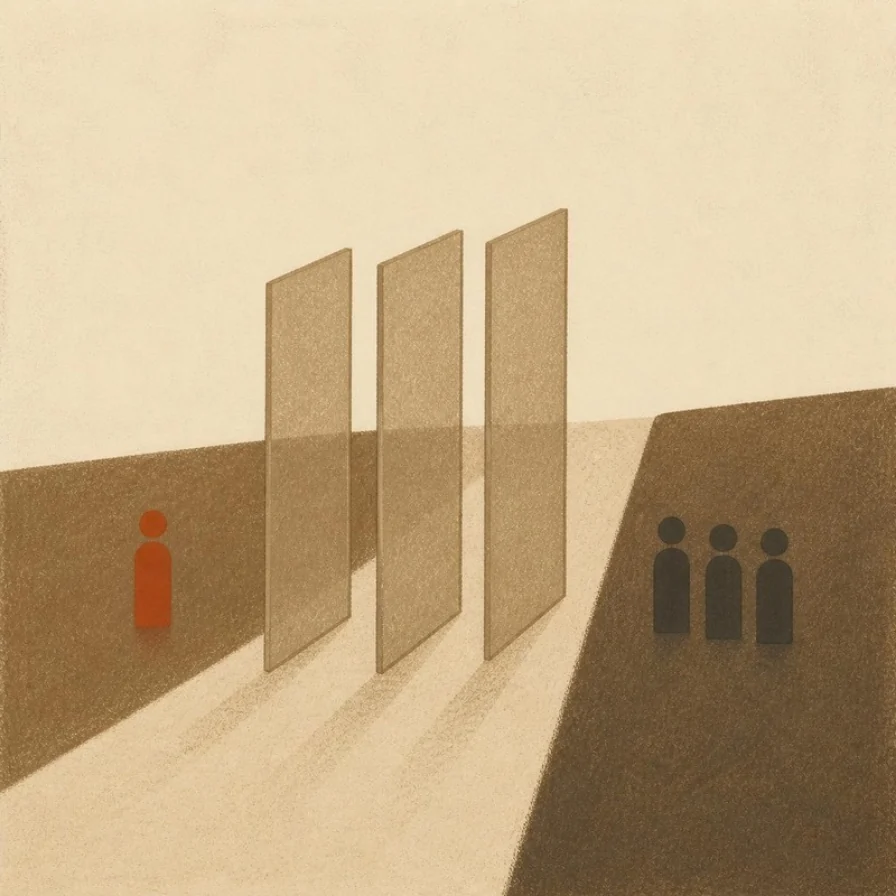
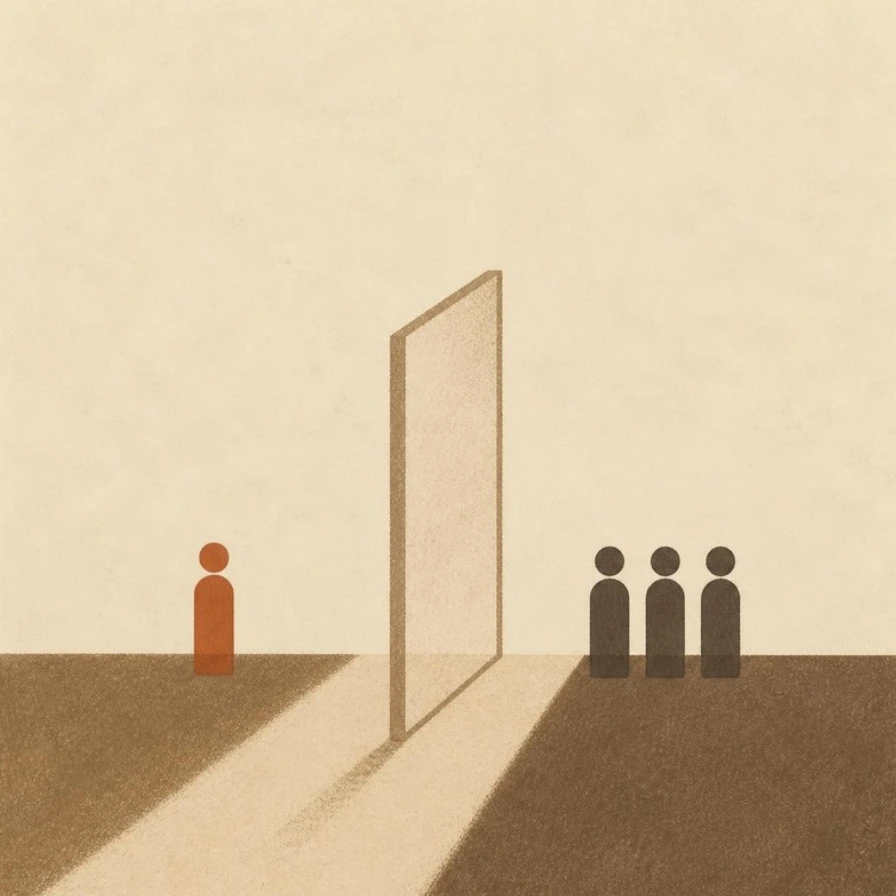
Isolation: one pane in the illustration too, not three
d985da5 changed this beat from three panes of glass to one, in the SVG
and in the 3D scene. The illustration that landed a day later still
showed three, and the illustration is what the still path actually
draws — the ARTWORK entry overrides the drawing beside it. So the same
beat said one pane in the moving version and three in the still one,
and the alt text said "three tall translucent panes" out loud.

Regenerated from the same style reference as the rest of the set, so it
still reads as one hand: a single pane, the person alone on one side,
three people still lit and still there on the other. Separation, not
abandonment — which is the thing this beat has to get right.

diff --git a/src/components/home/SceneStill.tsx b/src/components/home/SceneStill.tsx
@@ -591,7 +591,7 @@ const ARTWORK: Partial<Record<SceneId, { src: string; alt: string }>> = {
   },
   glass: {
     src: '/stills/glass.webp',
-    alt: 'Three tall translucent panes standing in a row, with a single orange figure alone on one side and three dark figures together on the other.',
+    alt: 'A single tall translucent pane standing upright, with one orange figure alone on one side and three dark figures together on the other.',
   },
   ocean: {
     src: '/stills/ocean.webp',
